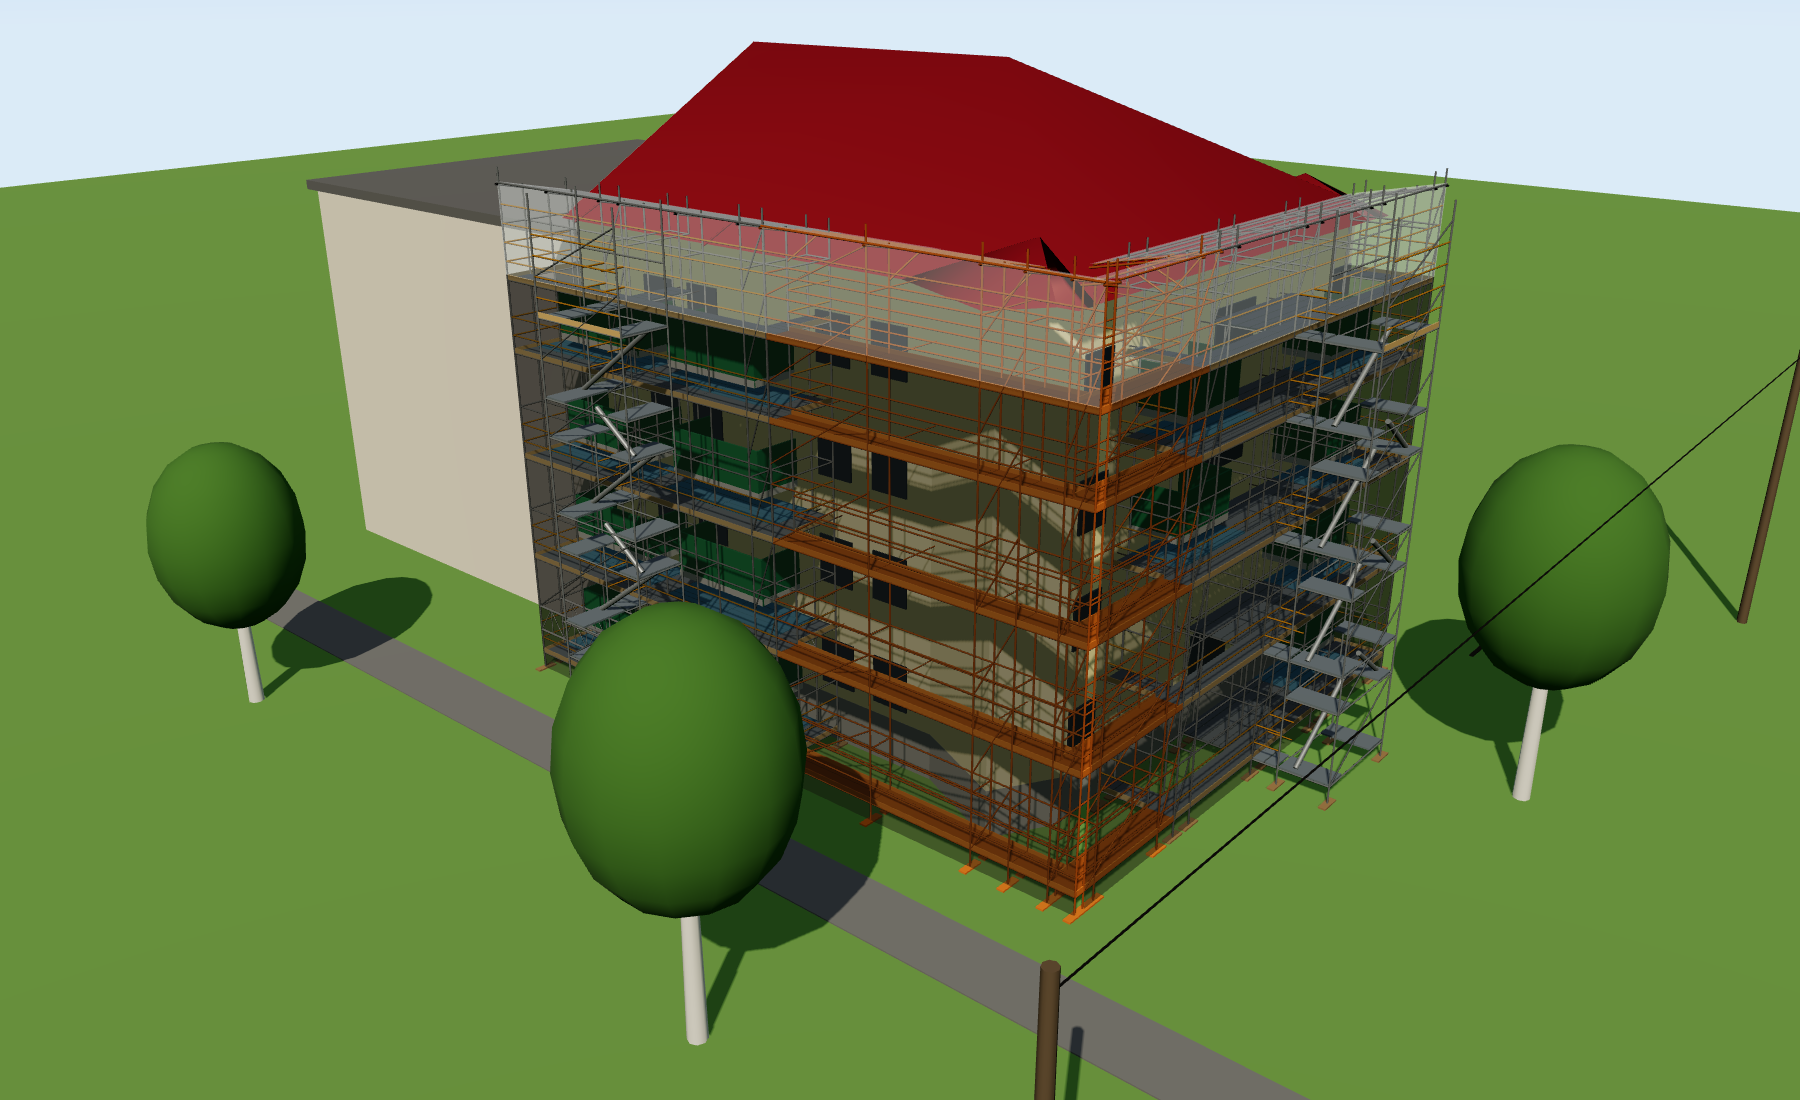
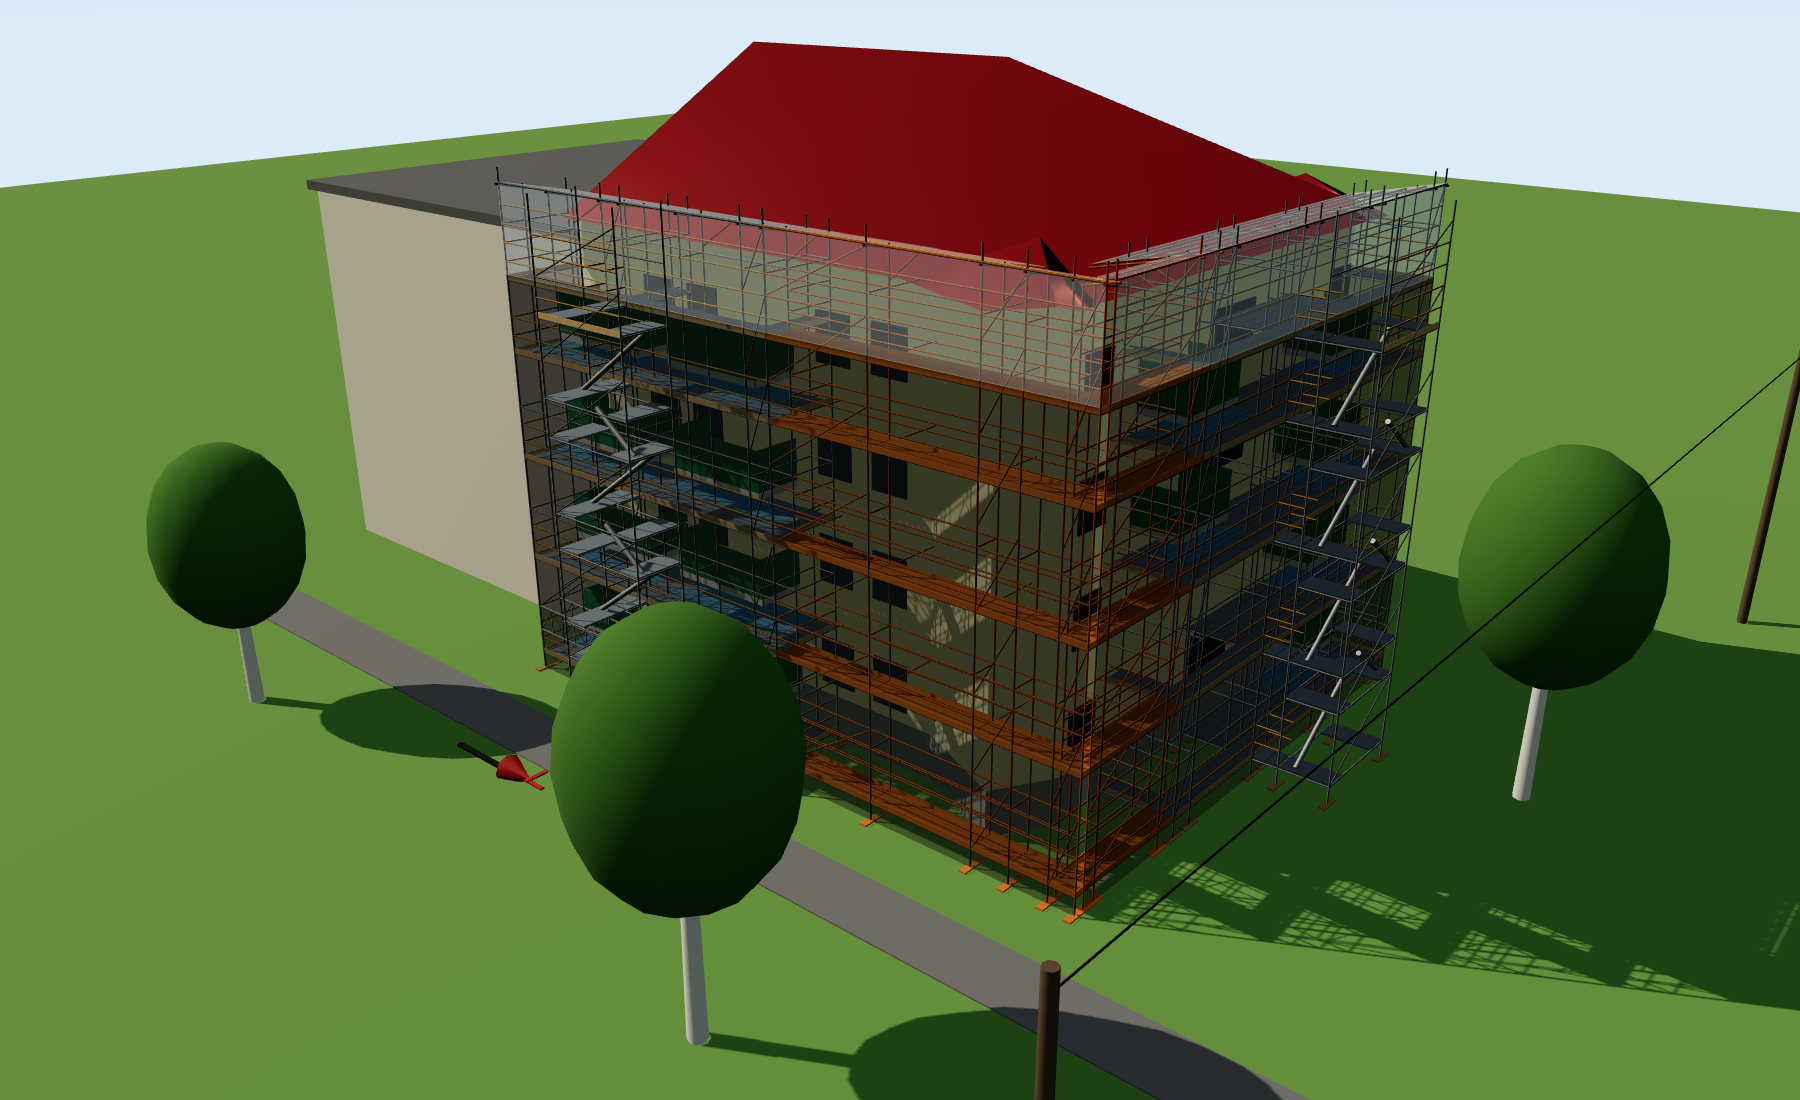
Nordpil åt höger: 8-balkongsfasaden i nederkant vänder mot öster

diff --git a/index.html b/index.html
@@ -24,7 +24,7 @@ const CT=new OrbitControls(C,R.domElement); CT.target.set(9,5,-3);
 // himmel
 {const g=new THREE.SphereGeometry(400,32,16);const m=new THREE.ShaderMaterial({side:THREE.BackSide,uniforms:{},vertexShader:'varying vec3 p;void main(){p=(modelMatrix*vec4(position,1.)).xyz;gl_Position=projectionMatrix*viewMatrix*vec4(p,1.);}',fragmentShader:'varying vec3 p;void main(){float h=normalize(p).y;vec3 c=mix(vec3(.86,.92,.97),vec3(.33,.58,.86),clamp(h*1.6,0.,1.));gl_FragColor=vec4(c,1.);}'});S.add(new THREE.Mesh(g,m));}
 S.add(new THREE.HemisphereLight(0xdfefff,0x6b8f4e,0.75));
-const sun=new THREE.DirectionalLight(0xfff3dd,2.3); sun.position.set(30,38,30); sun.castShadow=true; sun.shadow.mapSize.set(4096,4096);
+const sun=new THREE.DirectionalLight(0xfff3dd,2.3); sun.position.set(-30,38,15); sun.castShadow=true; sun.shadow.mapSize.set(4096,4096);
 Object.assign(sun.shadow.camera,{left:-40,right:40,top:40,bottom:-40,near:1,far:150}); sun.shadow.bias=-0.0004; sun.target.position.set(9,0,-6); S.add(sun); S.add(sun.target);
 const V=(x,y,z)=>new THREE.Vector3(x,z,-y);
 // mark
@@ -76,12 +76,12 @@ const balG=new THREE.Group(); S.add(balG);
 {const tr=(x,y,h,r)=>{const t=new THREE.Mesh(new THREE.CylinderGeometry(0.15,0.22,h*0.55,8),M(0xe8e4dc));t.position.copy(V(x,y,h*0.275));t.castShadow=true;S.add(t);
   const k=new THREE.Mesh(new THREE.SphereGeometry(r,14,10),M(0x4f7a32,{roughness:1}));k.scale.y=1.3;k.position.copy(V(x,y,h*0.62));k.castShadow=true;S.add(k);};
  tr(15.5,-10.5,10,2.3); tr(24.5,9.0,10,2.3); tr(-4.5,-9,8,2.0);
- // kompassros på marken: N i modellens +y (samma som ritningens nordpil)
- {const cx=20.5,cy=16.8; const nm=M(0x1a1a1a);
-  const shaft=new THREE.Mesh(new THREE.BoxGeometry(0.12,0.04,1.6),nm); shaft.position.copy(V(cx,cy,0.04)); S.add(shaft);
-  const head=new THREE.Mesh(new THREE.ConeGeometry(0.28,0.7,8),M(0xc0392b)); head.position.copy(V(cx,cy+1.05,0.08)); head.rotation.x=Math.PI/2; S.add(head);
-  const tl=new THREE.Mesh(new THREE.BoxGeometry(0.45,0.02,0.08),M(0xc0392b)); tl.position.copy(V(cx,cy+1.55,0.22)); S.add(tl);
-  const trN=new THREE.Mesh(new THREE.BoxGeometry(0.08,0.02,0.45),M(0xc0392b)); trN.position.copy(V(cx+0.12,cy+1.55,0.35)); S.add(trN);}
+ // kompassros på marken: N i modellens +x (8-balkongsfasaden utåt −y vänder mot öster; byggnaden ospeglad)
+ {const cx=3.2,cy=-6.8; const nm=M(0x1a1a1a);
+  const shaft=new THREE.Mesh(new THREE.BoxGeometry(2.2,0.06,0.16),nm); shaft.position.copy(V(cx,cy,0.05)); S.add(shaft);
+  const head=new THREE.Mesh(new THREE.ConeGeometry(0.4,0.95,8),M(0xc0392b)); head.position.copy(V(cx+1.55,cy,0.12)); head.rotation.z=-Math.PI/2; S.add(head);
+  const tl=new THREE.Mesh(new THREE.BoxGeometry(0.12,0.04,0.65),M(0xc0392b)); tl.position.copy(V(cx+2.25,cy,0.35)); S.add(tl);
+  const trN=new THREE.Mesh(new THREE.BoxGeometry(0.65,0.04,0.12),M(0xc0392b)); trN.position.copy(V(cx+2.45,cy-0.2,0.28)); S.add(trN);}
  const pm=M(0x6b5a45); for(const p of [[26,-14],[26,24]]){const c=new THREE.Mesh(new THREE.CylinderGeometry(0.12,0.15,9,8),pm);c.position.copy(V(p[0],p[1],4.5));c.castShadow=true;S.add(c);}
  const cab=new THREE.Mesh(new THREE.CylinderGeometry(0.02,0.02,38,4),M(0x111111));cab.position.copy(V(26,5,8.6));cab.rotation.x=Math.PI/2;S.add(cab);}
 // ställning
